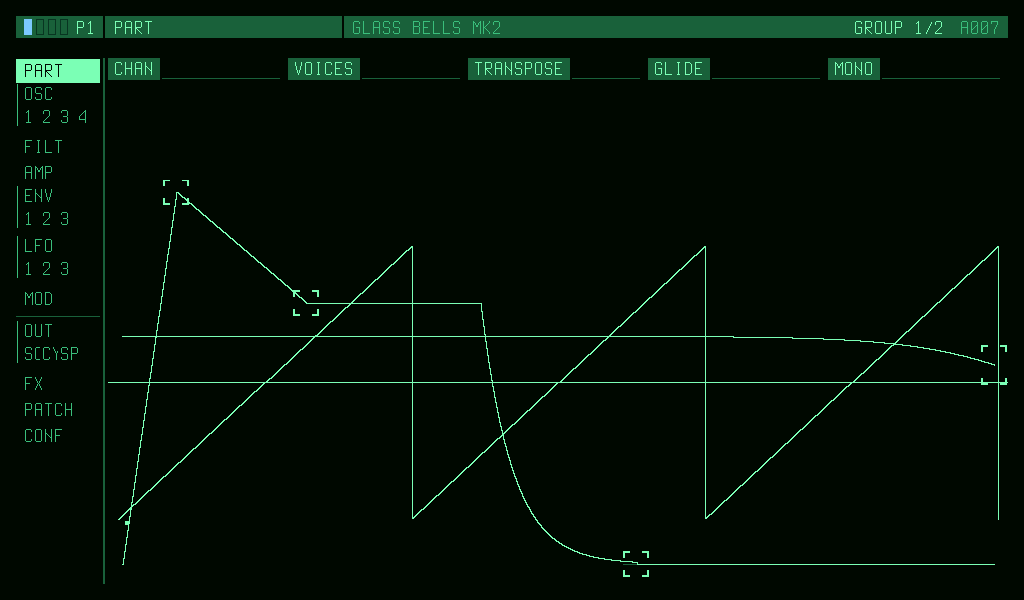
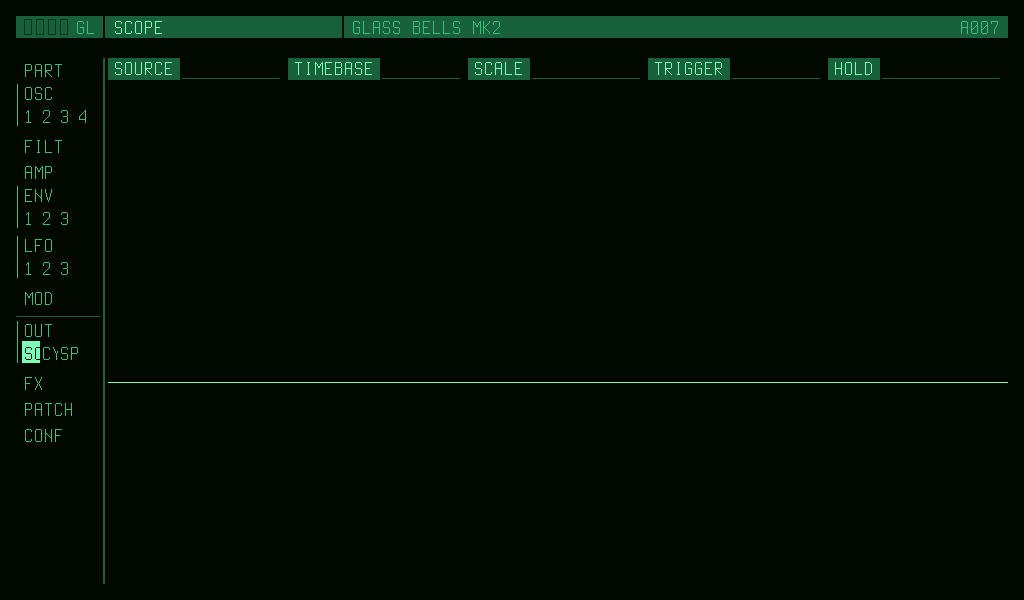
fix(nostromo): only the active page's plot paints; clear plot band + value row
The four plot slots share one 900x404 band, but PanelDraw drew every dirty
slot, so the scope/envelope overlaid the filter on a note press. Now only the
page's dyn_slot paints (ActivePlotSlot), and each plot hook clears the band +
resets its trace so switching pages replaces the previous curve instead of
layering it. DrawColumns clears the value row so a changed value does not
leave stale glyphs. test_panel drives the layer (InteractionInit) and asserts
the active-plot gating; panel_shot inits the layer too.

diff --git a/nostromo/panel.cc b/nostromo/panel.cc
@@ -701,6 +701,8 @@ void PlotOsc(FrameBuffer &fb, const Rect &r, void *state) {
   ++p->draw_counts[0];
   const Rect saved = fb.clip;
   fb.clip = r;
+  FillRect(fb, r.x, r.y, r.w, r.h, kBg);
+  std::memset(&p->traces[0][p->fb_index], 0xFF, sizeof(TraceState));
   DrawOscPlot(fb, r.x, r.y, r.w, r.h, *p);
   fb.clip = saved;
 }
@@ -710,6 +712,8 @@ void PlotFilter(FrameBuffer &fb, const Rect &r, void *state) {
   ++p->draw_counts[1];
   const Rect saved = fb.clip;
   fb.clip = r;
+  FillRect(fb, r.x, r.y, r.w, r.h, kBg);
+  std::memset(&p->traces[1][p->fb_index], 0xFF, sizeof(TraceState));
   DrawFilterPlot(fb, r.x, r.y, r.w, r.h, *p);
   fb.clip = saved;
 }
@@ -719,6 +723,8 @@ void PlotEnv(FrameBuffer &fb, const Rect &r, void *state) {
   ++p->draw_counts[2];
   const Rect saved = fb.clip;
   fb.clip = r;
+  FillRect(fb, r.x, r.y, r.w, r.h, kBg);
+  std::memset(&p->traces[2][p->fb_index], 0xFF, sizeof(TraceState));
   DrawEnvPlot(fb, r.x, r.y, r.w, r.h, *p);
   fb.clip = saved;
 }
@@ -728,6 +734,8 @@ void PlotOut(FrameBuffer &fb, const Rect &r, void *state) {
   ++p->draw_counts[3];
   const Rect saved = fb.clip;
   fb.clip = r;
+  FillRect(fb, r.x, r.y, r.w, r.h, kBg);
+  std::memset(&p->traces[3][p->fb_index], 0xFF, sizeof(TraceState));
   DrawOutPlot(fb, r.x, r.y, r.w, r.h, *p);
   fb.clip = saved;
 }
@@ -827,6 +835,8 @@ void DrawColumns(FrameBuffer &fb, const NavState &nav, const PageDesc &page) {
     TextLeft(fb, label, x + 6, geom::kHeaderY + 1, kPrimaryFont, kBright);
     DrawHLine(fb, x + bw + 2, geom::kHeaderY + geom::kHeaderH - 6,
               geom::kColW - bw - 2 - 8, kDim);
+    // Clear the value row so a changed value does not leave stale glyphs.
+    FillRect(fb, x + 6, geom::kValueY, geom::kColW - 6, geom::kValueH, kBg);
     if (cs.kind == ColumnKind::kParam) {
       char val[16];
       const float norm = engine::EngineGetParam(
@@ -998,6 +1008,13 @@ void MarkDirty(Panel *p, SlotIdx idx) {
   p->damage.Add(p->dyn[idx].rect);
 }
 
+// The plot slot the current page shows, or -1 for pages without a plot. The
+// four slots share one band; only the active page's plot may paint into it.
+int ActivePlotSlot() {
+  const NavState &nav = InteractionNavState();
+  return g_pages[static_cast<int>(nav.subject)].dyn_slot;
+}
+
 void PanelDraw(Panel *p, FrameBuffer &fb, int buffer_index) {
   // Record which buffer we draw into; the backend owns the swap and passes it
   // in, so there is no independent toggle to desync.
@@ -1028,7 +1045,11 @@ void PanelDraw(Panel *p, FrameBuffer &fb, int buffer_index) {
     // column-update skip does not elide a curve over the wiped background.
     for (int i = 0; i < 4; ++i)
       std::memset(&p->traces[i][b], 0xFF, sizeof(TraceState));
+    // Only the active page's plot paints into the shared band; the other three
+    // slots are different pages and must not paint over it.
+    const int active = ActivePlotSlot();
     for (int i = 0; i < 4; ++i) {
+      if (i != active) continue;
       p->dyn[i].draw(fb, p->dyn[i].rect, p->dyn[i].state);
       p->pending[i] = 0;
       p->dyn[i].dirty = false;
@@ -1047,7 +1068,9 @@ void PanelDraw(Panel *p, FrameBuffer &fb, int buffer_index) {
   // says *a buffer is still owed* — and they coincide because MarkDirty is the
   // sole writer of both.
   const int n = p->damage.Repaint();
+  const int active = ActivePlotSlot();
   for (int k = 0; k < 4; ++k) {
+    if (k != active) continue;  // only the active page's plot paints
     if (!p->dyn[k].dirty || p->pending[k] <= 0) continue;
     const Rect &pr = p->dyn[k].rect;
     bool hit = false;

diff --git a/tests/test_panel.cc b/tests/test_panel.cc
@@ -1,12 +1,14 @@
-// test_panel.cc — golden image, double buffering, and invalidation gating for
-// the migrated edit screen (pane + columns + one 900x404 plot band).
+// test_panel.cc — golden image, double buffering, and active-plot invalidation
+// gating for the migrated edit screen (pane + columns + one 900x404 plot band).
 
 #include <cstdint>
 #include <cstdio>
 
 #include "engine.h"
 #include "fb.h"
+#include "interaction.h"
 #include "panel.h"
+#include "surface.h"
 
 using namespace spike;
 using namespace nostromo;
@@ -32,13 +34,13 @@ static std::uint32_t Hash(const std::uint16_t *px, int n) {
     return h;
 }
 
-// Golden-image hash of the initial (deterministic) full render of the new
-// edit-screen layout.
-static constexpr std::uint32_t kExpectedHash = 0x9D7DF51C;
+// Golden-image hash of the power-on page (kOutScope → scope plot) full render.
+static constexpr std::uint32_t kExpectedHash = 0xB54F651A;
 
 int main() {
     engine::EngineInit();
     Panel *p = PanelCreate();
+    InteractionInit(p, Surface());  // power-on page: kOutScope → scope plot
 
     static std::uint16_t buf0[kW * kH];
     static std::uint16_t buf1[kW * kH];
@@ -55,19 +57,28 @@ int main() {
     Check(h0 == h1, "double buffering: both buffers render identically");
     Check(h0 == kExpectedHash, "golden image matches the reference hash");
 
-    // Invalidation gating: MarkDirty redraws the plot into both buffers.
+    // Invalidation gating: MarkDirty redraws the ACTIVE plot into both buffers.
+    const int out_before = PanelPlotDraws(p, 3);
+    MarkDirty(p, kSlotOut);
+    PanelDraw(p, fb0, 0);
+    PanelDraw(p, fb1, 1);
+    Check(PanelPlotDraws(p, 3) == out_before + 2,
+          "MarkDirty redraws the active plot into both buffers");
+
+    // A non-active plot is not drawn even when marked dirty (the four slots
+    // share one band, so only the active page's plot may paint).
     const int filter_before = PanelPlotDraws(p, 1);
     MarkDirty(p, kSlotFilter);
     PanelDraw(p, fb0, 0);
     PanelDraw(p, fb1, 1);
-    Check(PanelPlotDraws(p, 1) == filter_before + 2,
-          "MarkDirty redraws the plot into both buffers");
+    Check(PanelPlotDraws(p, 1) == filter_before,
+          "a non-active plot is not drawn");
 
     // Steady state: a no-change frame redraws nothing.
-    const int osc_before = PanelPlotDraws(p, 0);
+    const int out_steady = PanelPlotDraws(p, 3);
     PanelDraw(p, fb0, 0);
     PanelDraw(p, fb1, 1);
-    Check(PanelPlotDraws(p, 0) == osc_before, "steady state: no redraw");
+    Check(PanelPlotDraws(p, 3) == out_steady, "steady state: no redraw");
 
     if (g_failures) {
         std::printf("%d failure(s)\n", g_failures);

diff --git a/tools/panel_shot.cc b/tools/panel_shot.cc
@@ -23,8 +23,10 @@
 #include <vector>
 
 #include "engine.h"
+#include "interaction.h"
 #include "panel.h"
 #include "png.h"
+#include "surface.h"
 
 namespace {
 
@@ -39,6 +41,7 @@ int main(int argc, char **argv) {
 
   engine::EngineInit();
   nostromo::Panel *p = nostromo::PanelCreate();
+  nostromo::InteractionInit(p, nostromo::Surface());  // power-on page
 
   std::vector<std::uint16_t> buf0(kW * kH), buf1(kW * kH);
   spike::FrameBuffer fb0{buf0.data(), kW, kH, kW, spike::Rect{0, 0, kW, kH}};
